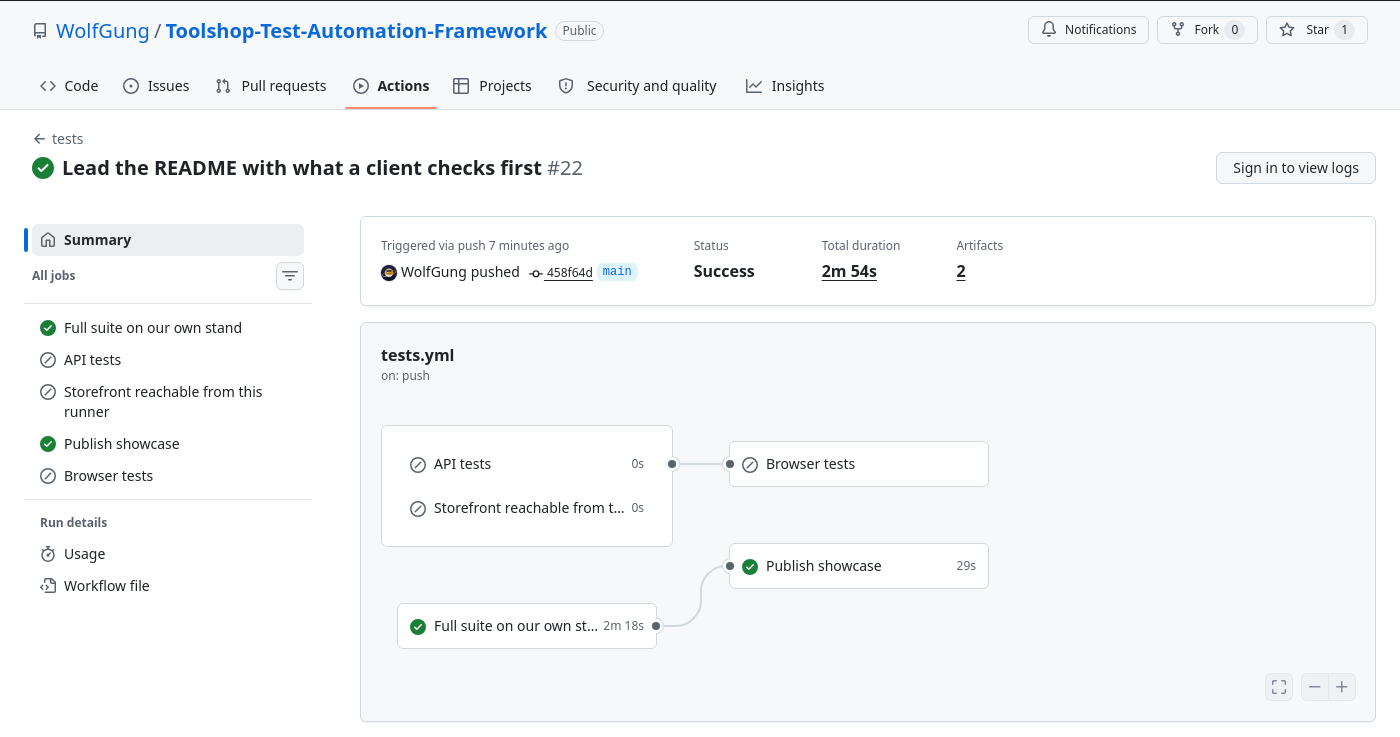
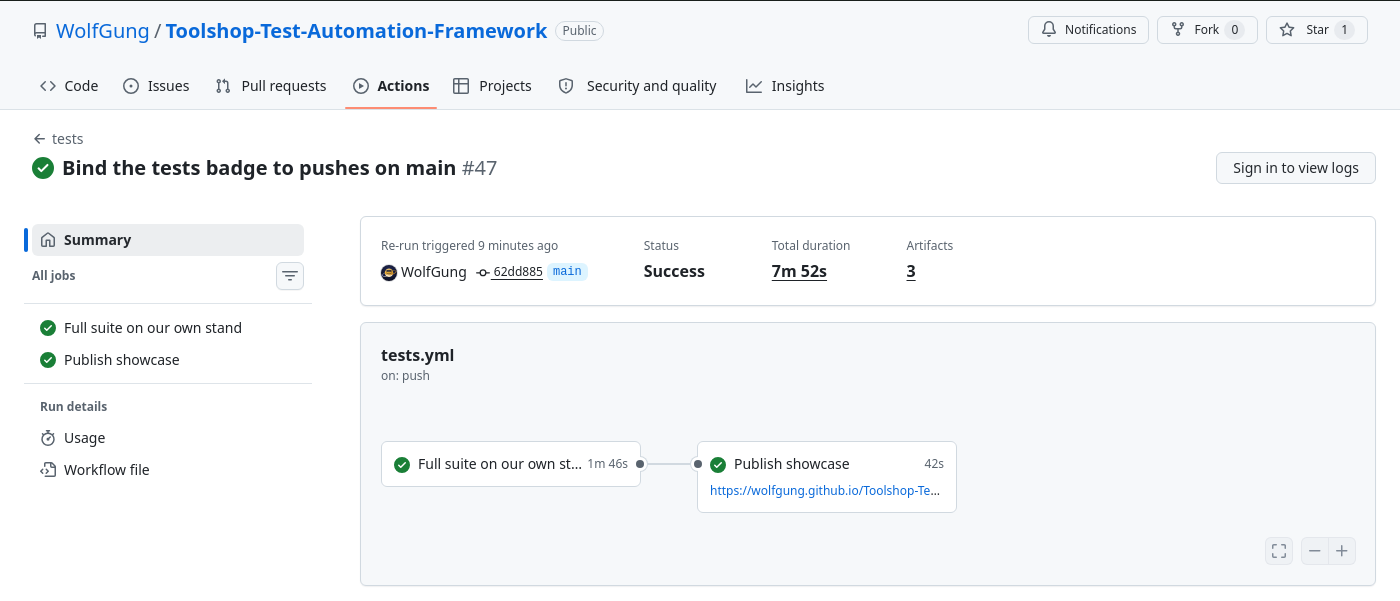
Photograph the tests run after the hosted-site check moved out
The picture of CI in the README showed run #22 with five jobs, three of them the skipped checks of the hosted site that tests.yml used to carry. tests.yml now holds the stand job and the publication and nothing else, so the picture is retaken with scripts/make-assets.py --ci-run from run #47 on main at 62dd885, and the README links that run. It is a re-run: the first attempt was never given a runner during a GitHub Actions outage and was cancelled before any step ran.

diff --git a/README.md b/README.md
@@ -42,7 +42,7 @@ both published by [the pipeline that had to pass first](https://wolfgung.github.
 
 [![The Allure report of a full run against the stand: every case green, with the environment it ran in](allure-report-screenshot.png)](https://wolfgung.github.io/Toolshop-Test-Automation-Framework/report/)
 
-[![The run page of the tests workflow on a push to main: a green verdict, the list of jobs beside the graph of them, and the stand job the publication waits on](showcase/images/ci-run.png)](https://github.com/WolfGung/Toolshop-Test-Automation-Framework/actions/runs/35781310396)
+[![The run page of the tests workflow on a push to main: a green verdict, the list of jobs beside the graph of them, and the stand job the publication waits on](showcase/images/ci-run.png)](https://github.com/WolfGung/Toolshop-Test-Automation-Framework/actions/runs/37370382620)
 
 Both are photographs of the real thing, taken by `scripts/make-assets.py` — the
 run page with `--ci-run`, the report with the report generated and served
